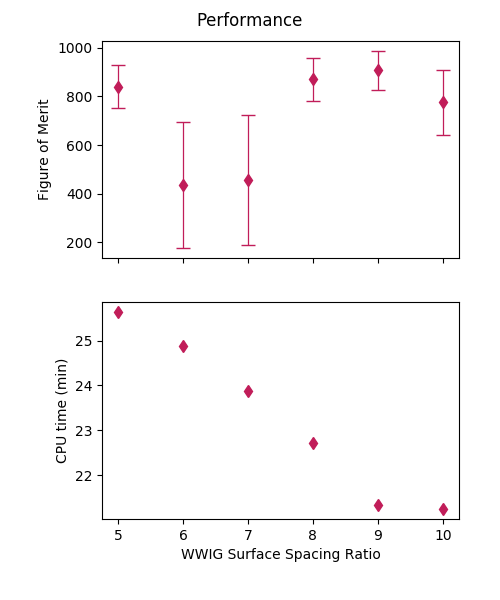
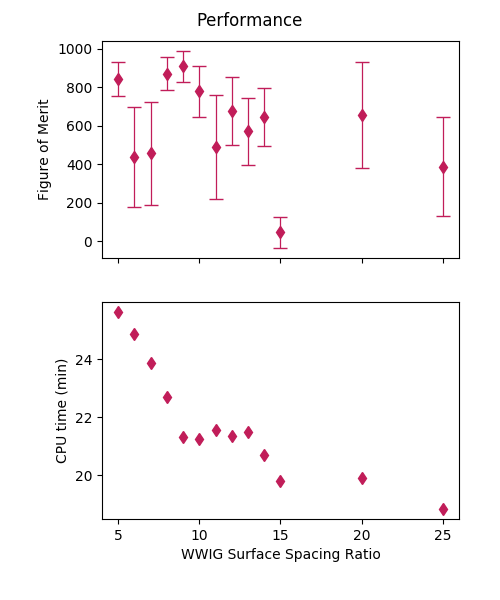
new run data

diff --git a/performance-analysis/analysis/collect_mcnp_run_data.py b/performance-analysis/analysis/collect_mcnp_run_data.py
@@ -86,8 +86,6 @@ def iterate_ratios(fdir):
     """
     all_info = []
     for ratio in os.listdir(fdir):
-        if (int(ratio[1:]) >= 11):
-            continue
         new_dir = fdir + '/' + ratio
         collected_info = collect_info(new_dir)
 
